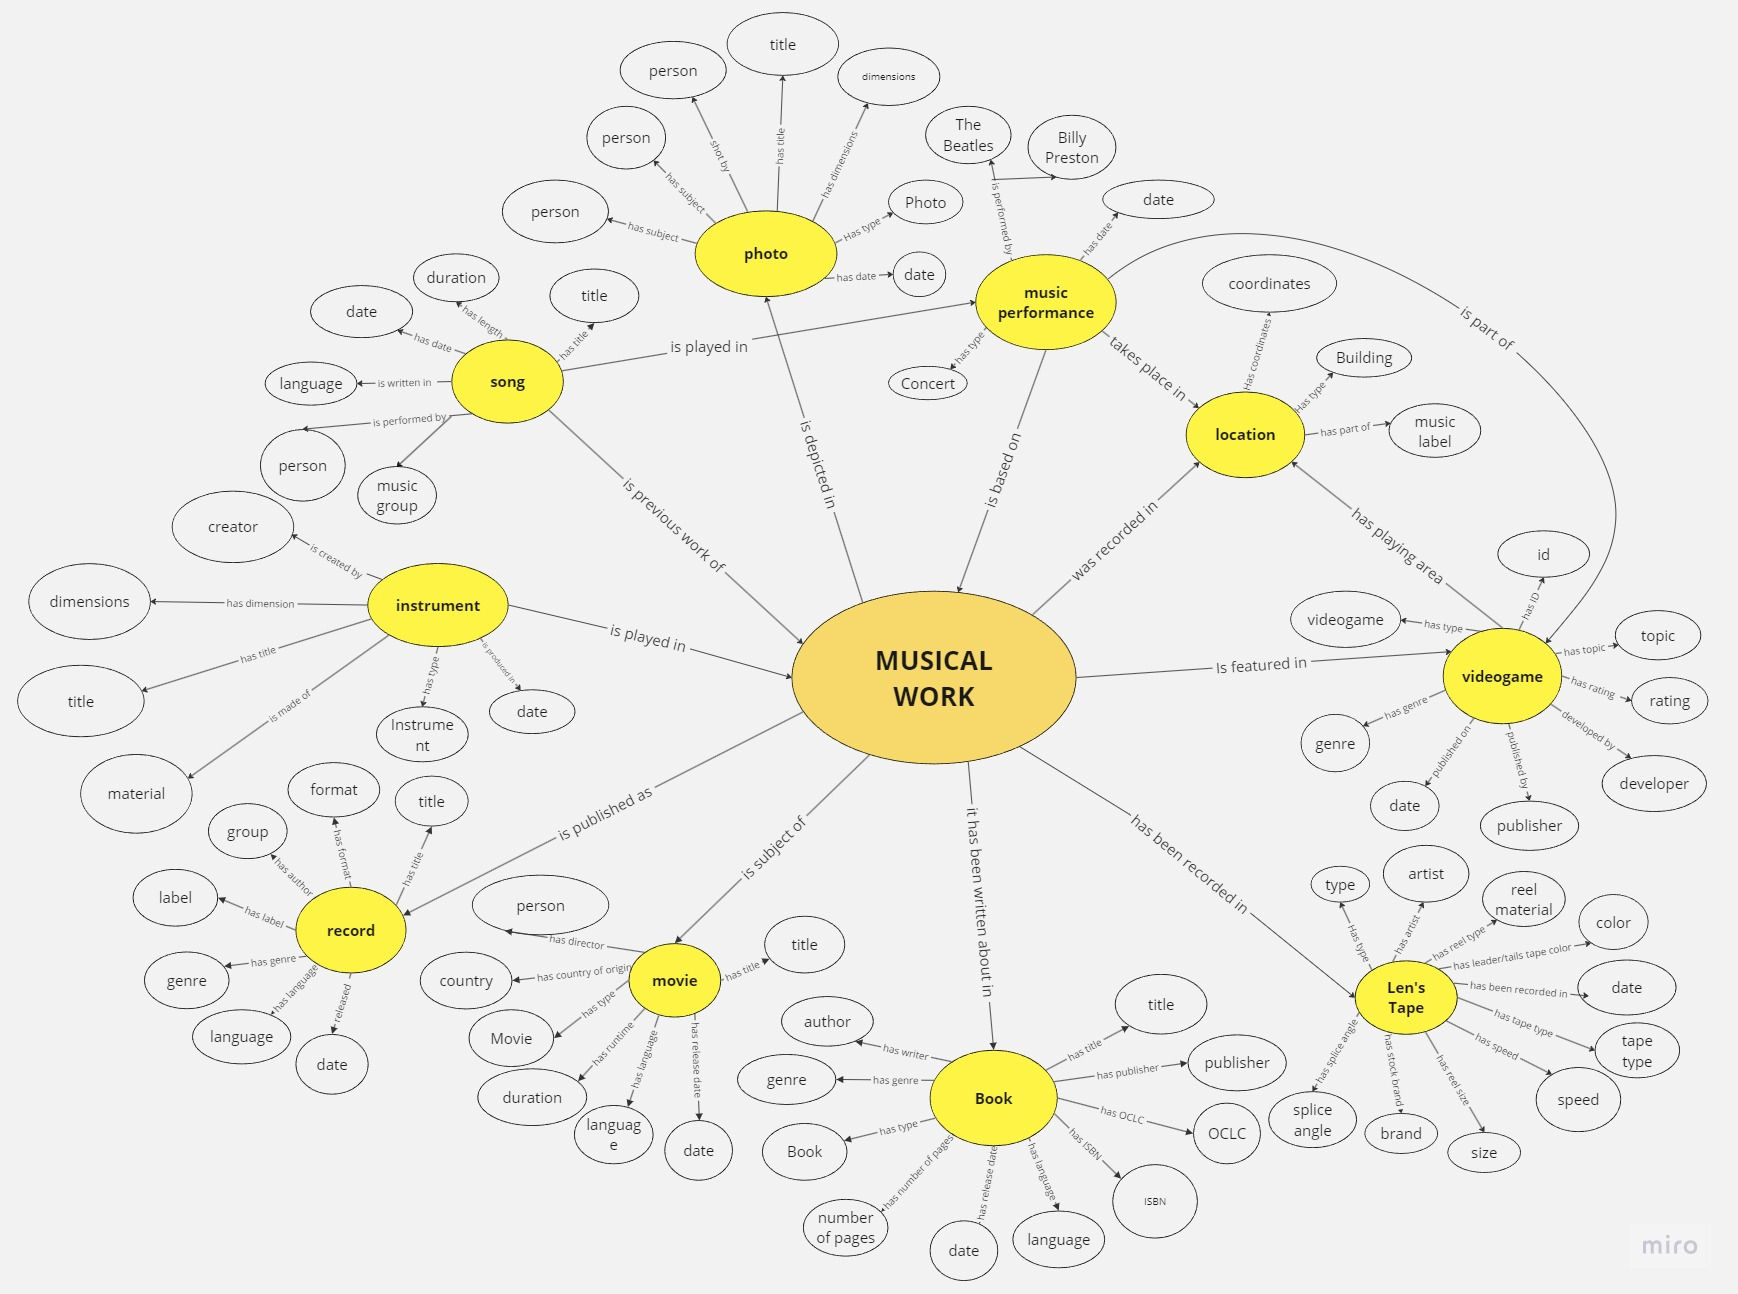
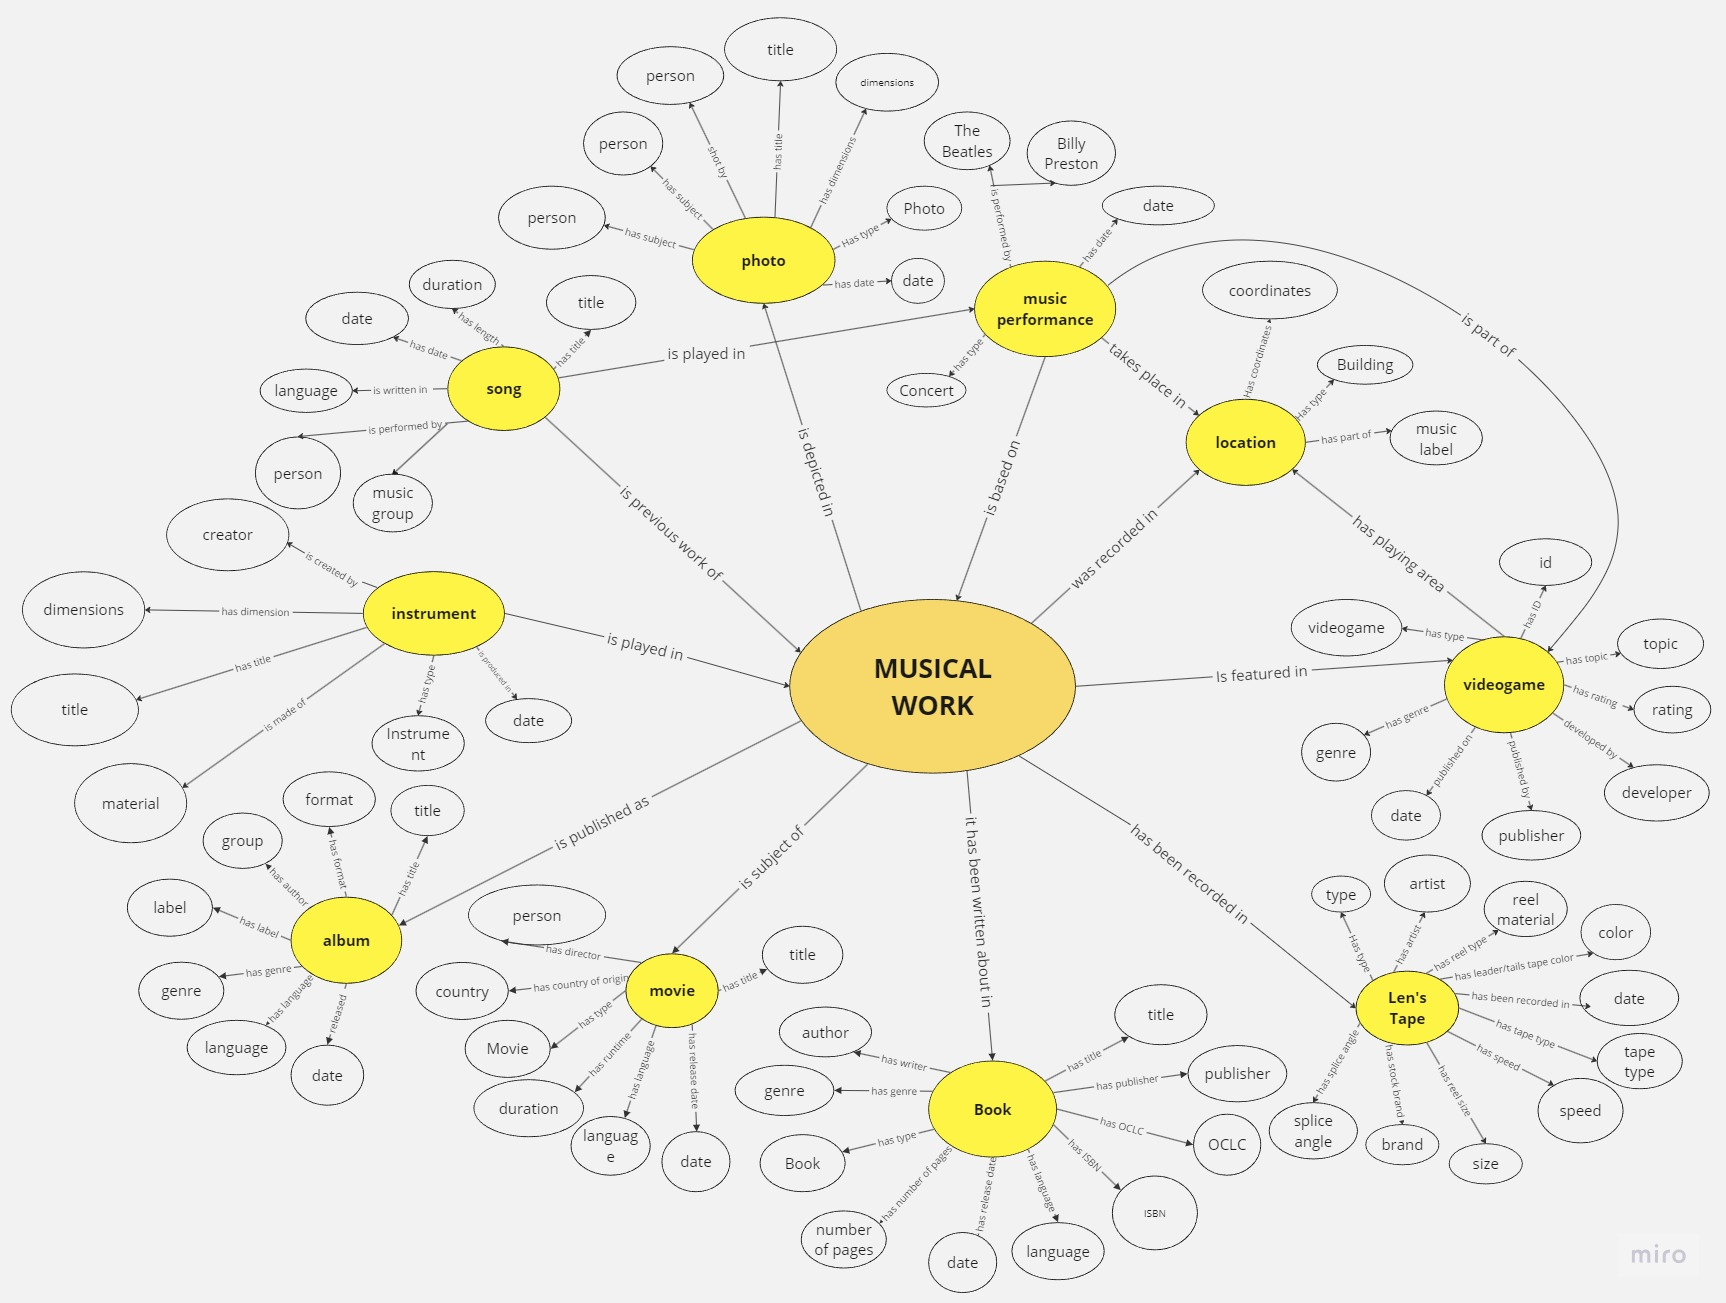
change in img

diff --git a/index.html b/index.html
@@ -322,7 +322,7 @@
                 </tr>
                 <tr>
                   <td>Let It Be</td>
-                  <td>record</td>
+                  <td>album</td>
                   <td>Discogs</td>
                   <td>DDS XML schema</td>
                   <td>DDS XML schema <br>(<a
@@ -857,7 +857,7 @@
             </li>
             <li class="nav-item" data-aos="zoom-in">
               <a class="nav-link" data-bs-toggle="tab" href="#record">
-                <h4 style="font-size: 20px">Record<h4>
+                <h4 style="font-size: 20px">Album<h4>
               </a>
             </li>
             <li class="nav-item" data-aos="zoom-in">
